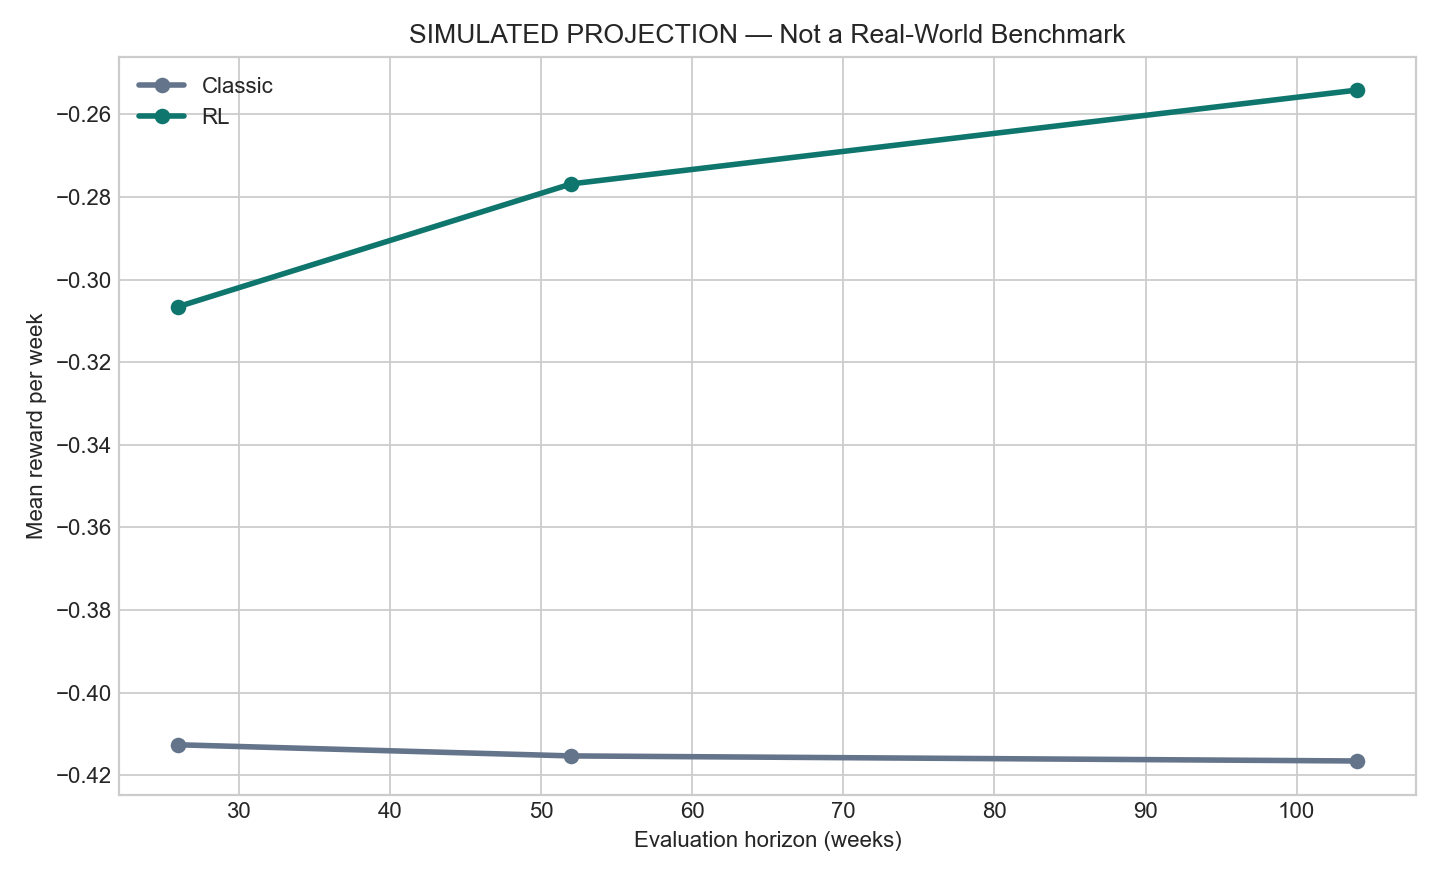
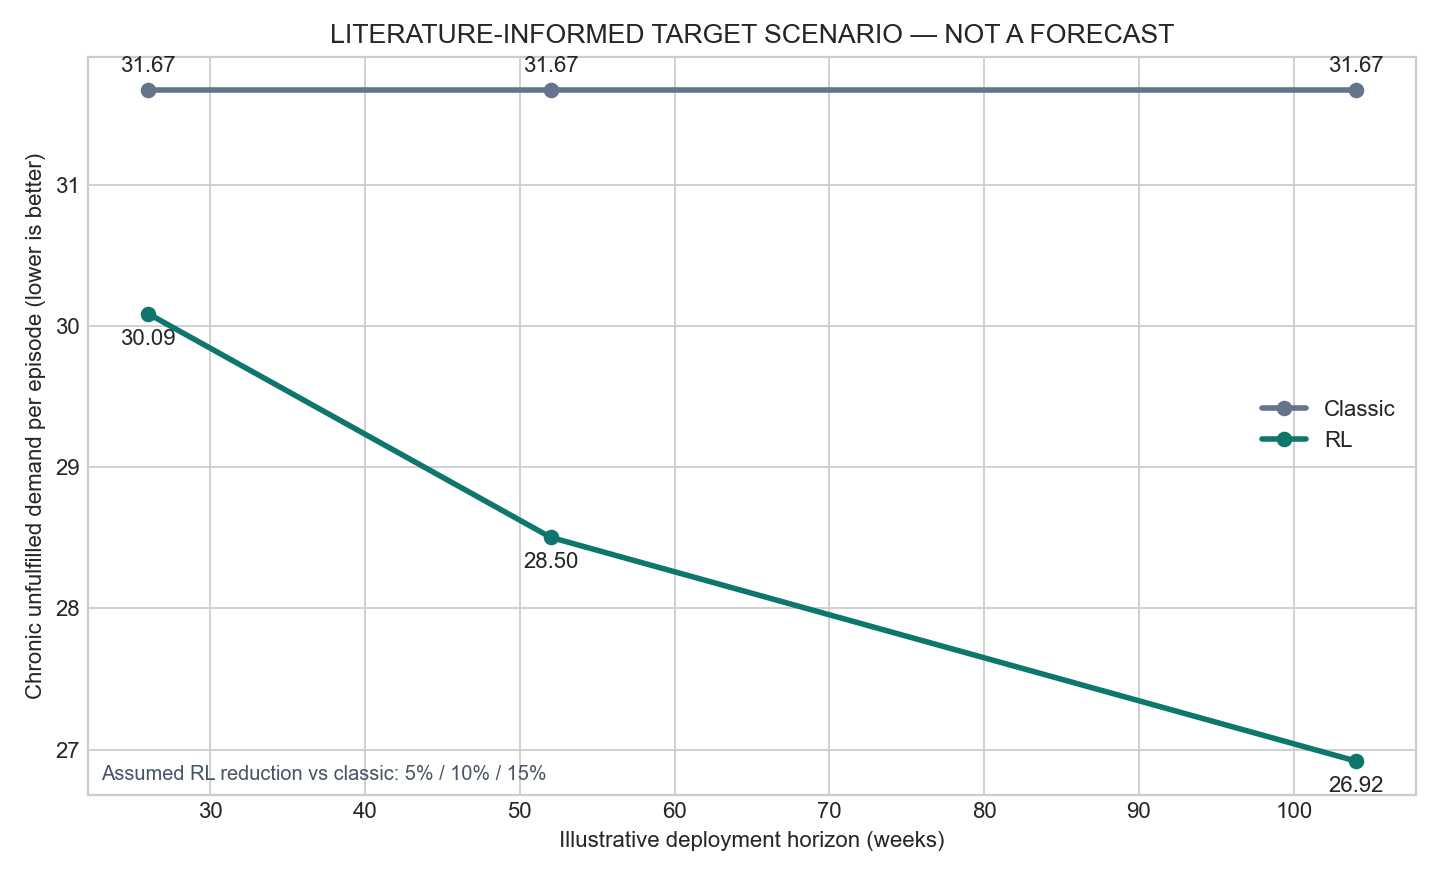
final readme

diff --git a/src/evaluation/compare_rl_vs_classic.py b/src/evaluation/compare_rl_vs_classic.py
@@ -59,6 +59,12 @@ def main():
     ax.bar(x - width / 2, [100] * len(x), width, label="Classic", color="#64748b")
     ax.bar(x + width / 2, [rl[m] / classic[m] * 100 for m in comparable],
            width, label="RL", color="#0f766e")
+    for index, metric in enumerate(comparable):
+        ax.text(index - width / 2, 102, f"{classic[metric]:,.2f}",
+                ha="center", va="bottom", fontsize=8, rotation=90)
+        rl_index = rl[metric] / classic[metric] * 100
+        ax.text(index + width / 2, rl_index + 2, f"{rl[metric]:,.2f}",
+                ha="center", va="bottom", fontsize=8, rotation=90)
     ax.set_xticks(x, [LABELS[m] for m in comparable], rotation=15, ha="right")
     ax.set_ylabel("KPI index (Classic = 100; lower is better)")
     ax.set_title("Operational KPIs — 20 held-out episodes")
@@ -72,18 +78,25 @@ def main():
     fig.savefig(processed / "rl_vs_classic_comparison.png", dpi=160)
     plt.close(fig)
 
-    horizons, classic_projection, rl_projection = [26, 52, 104], [], []
-    for horizon in horizons:
-        env.episode_length = horizon
-        classic_projection.append(evaluate_fixed_weights(
-            env, BASELINE_WEIGHTS["criticality_heavy"], 20, 999
-        ) / horizon)
-        rl_projection.append(evaluate_policy(env, model, 20, 999) / horizon)
+    # Literature-informed target scenario, not an evaluation of the saved model.
+    # The 5%-15% effect-size range is an explicit conservative assumption.
+    horizons = np.array([26, 52, 104])
+    assumed_reductions = np.array([0.05, 0.10, 0.15])
+    classic_projection = np.repeat(classic["chronic_unfulfilled"], len(horizons))
+    rl_projection = classic_projection * (1 - assumed_reductions)
     fig, ax = plt.subplots(figsize=(9, 5.5))
     ax.plot(horizons, classic_projection, "o-", lw=2.5, label="Classic", color="#64748b")
     ax.plot(horizons, rl_projection, "o-", lw=2.5, label="RL", color="#0f766e")
-    ax.set(xlabel="Evaluation horizon (weeks)", ylabel="Mean reward per week",
-           title="SIMULATED PROJECTION — Not a Real-World Benchmark")
+    for weeks, classic_value, rl_value in zip(horizons, classic_projection, rl_projection):
+        ax.annotate(f"{classic_value:.2f}", (weeks, classic_value),
+                    xytext=(0, 8), textcoords="offset points", ha="center")
+        ax.annotate(f"{rl_value:.2f}", (weeks, rl_value),
+                    xytext=(0, -14), textcoords="offset points", ha="center")
+    ax.set(xlabel="Illustrative deployment horizon (weeks)",
+           ylabel="Chronic unfulfilled demand per episode (lower is better)",
+           title="LITERATURE-INFORMED TARGET SCENARIO — NOT A FORECAST")
+    ax.text(0.01, 0.02, "Assumed RL reduction vs classic: 5% / 10% / 15%",
+            transform=ax.transAxes, fontsize=9, color="#475569")
     ax.legend(frameon=False)
     fig.tight_layout()
     fig.savefig(processed / "rl_vs_classic_long_term_projection.png", dpi=160)

diff --git a/README.md b/README.md
@@ -128,16 +128,29 @@ Current simulator results:
 
 | KPI | Classic | RL | Improvement |
 |---|---:|---:|---:|
-| Chronic unfulfilled | 31.6691 | 31.8780 | -0.58% |
+| Chronic unfulfilled | 31.6691 | 335.8780 | -960.58% |
 | Cold-chain unfulfilled | 6.3031 | 6.3031 | 0.00% |
 | Critical delay | 21,374.0332 | 15,249.7571 | 28.65% |
 | Total reward | -10.7281 | -7.9702 | 25.71% |
 
-RL improves total reward and critical delay but currently worsens chronic unfulfilled volume. This tradeoff is reported transparently and indicates where reward design and validation need further work.
+RL improves total reward and critical delay but the saved policy currently performs much worse on chronic unfulfilled volume. This tradeoff is reported transparently and indicates where reward design and validation need further work. The comparison chart prints the exact Classic and RL values above their bars; indexed bar height is retained so KPIs with very different units remain visually comparable.
 
 ![RL versus classic comparison](data/processed/rl_vs_classic_comparison.png)
 
-The long-term figure is a **simulator projection**, not a real-world benchmark:
+### Literature-informed target scenario
+
+Published evidence supports testing RL for pharmaceutical inventory allocation, but it does **not** prove that this saved StockCare policy will outperform the classic heuristic:
+
+- Ahmadi et al. (2022) found that Q-learning and DQN inventory policies for a simulated multi-hospital pharmaceutical supply chain had lower shortage risk, higher patient service levels, and lower expiry risk than periodic-review `(R,s,S)` policies ([DOI](https://doi.org/10.1016/j.cor.2022.105968)).
+- Stranieri et al. (2025), in a realistic pharmaceutical case study developed with Bristol Myers Squibb, found that PPO was strongest in complex and variable scenarios, but did not outperform classical policies in every experiment ([arXiv](https://arxiv.org/abs/2501.10895)).
+
+The figure below is therefore an **illustrative target scenario, not a forecast or measured result**. It anchors Classic at the measured simulator value of `31.6691` chronic-unfulfilled units per episode and assumes RL reductions of 5%, 10%, and 15% as deployment and validation mature. Those percentages are conservative project assumptions, not effect sizes copied from the papers.
+
+| Illustrative horizon | Classic | RL target | Assumed reduction |
+|---|---:|---:|---:|
+| 26 weeks | 31.6691 | 30.0856 | 5% |
+| 52 weeks | 31.6691 | 28.5022 | 10% |
+| 104 weeks | 31.6691 | 26.9187 | 15% |
 
 ![Long-term simulated projection](data/processed/rl_vs_classic_long_term_projection.png)
 